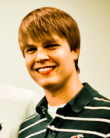
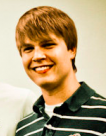
Added google ads. Added robots.txt. Fixed IE7 and IE8 compatibility issues. Slight rewording of about and team pages. Slightly different crop on my picture.

diff --git a/templates/team.html b/templates/team.html
@@ -16,6 +16,9 @@ FMLFeed was conceived and created by Craig Campbell in November 2010 and is curr
 	<img src={{ static_url("images/craig_campbell.png") }}/>
 </div>
 <br/><h3>Craig Campbell</h3>
-I am currently a 3rd year computer science student at Georgia Tech with studies focused in AI and Information Networking. I am also an avid 					hacker and active within the startup community. You can find more information about me at <a href="http://www.craigsc.com">craigsc.com</a> or contact me at <a href="mailto:craig@craigsc.com">craig@craigsc.com</a>.
+I am currently a 3rd year undergrad studying computer science at Georgia Tech with studies focused in AI and Information Networking. I am also an avid hacker and active within the startup community. You can find more information about me at <a href="http://www.craigsc.com">craigsc.com</a> or contact me at <a href="mailto:craig@craigsc.com">craig@craigsc.com</a>.
 <div style="clear:both;"></div>
+{% end %}
+
+{% block bottom_ad %}
 {% end %}

diff --git a/templates/index.html b/templates/index.html
@@ -81,6 +81,21 @@
 					<a class="button" href="" onclick="return false;"><span class="load">&#9660; Load older posts</span></a>
 					{% end %}
 				</div>
+				{% block bottom_ad %}
+				<div id="bottom_ad" align="center">
+					<script type="text/javascript"><!--
+						google_ad_client = "pub-0961413392243007";
+						/* All Pictures Bottom Ad */
+						google_ad_slot = "4393426740";
+						google_ad_width = 728;
+						google_ad_height = 90;
+						//-->
+					</script>
+					<script type="text/javascript"
+						src="http://pagead2.googlesyndication.com/pagead/show_ads.js">
+					</script>
+				</div>
+				{% end %}
 			</div>
 		</div>
 		<div id="footer">

diff --git a/static/css/custom.css b/static/css/custom.css
@@ -75,7 +75,7 @@ body {
 /* main feed */
 #feed {
 	background: #FFF;
-	margin: 25px auto 30px auto;
+	margin: 25px auto 10px auto;
 	padding: 15px;
 	width: 763px;
 	font-size: 14px;
@@ -173,8 +173,13 @@ a.button:hover {
 
 #ajax {
 	text-align: center;
-	margin-top: 15px;
+	padding-top: 15px;
 	display: none;
+}
+
+/* ads */
+#bottom_ad {
+	padding-bottom: 10px;
 }
 
 /* footer */
@@ -217,6 +222,7 @@ html, body {
 
 #container {
 	min-height: 100%;
+	width: 100%;
 }
 
 #content {

diff --git a/templates/about.html b/templates/about.html
@@ -25,3 +25,6 @@
 <br/>
 <p>You can contact the FMLFeed team at <a href="mailto:support@fmlfeed.com">support@fmlfeed.com</a>. We're always looking for new ideas!<p>
 {% end %}
+
+{% block bottom_ad %}
+{% end %}
